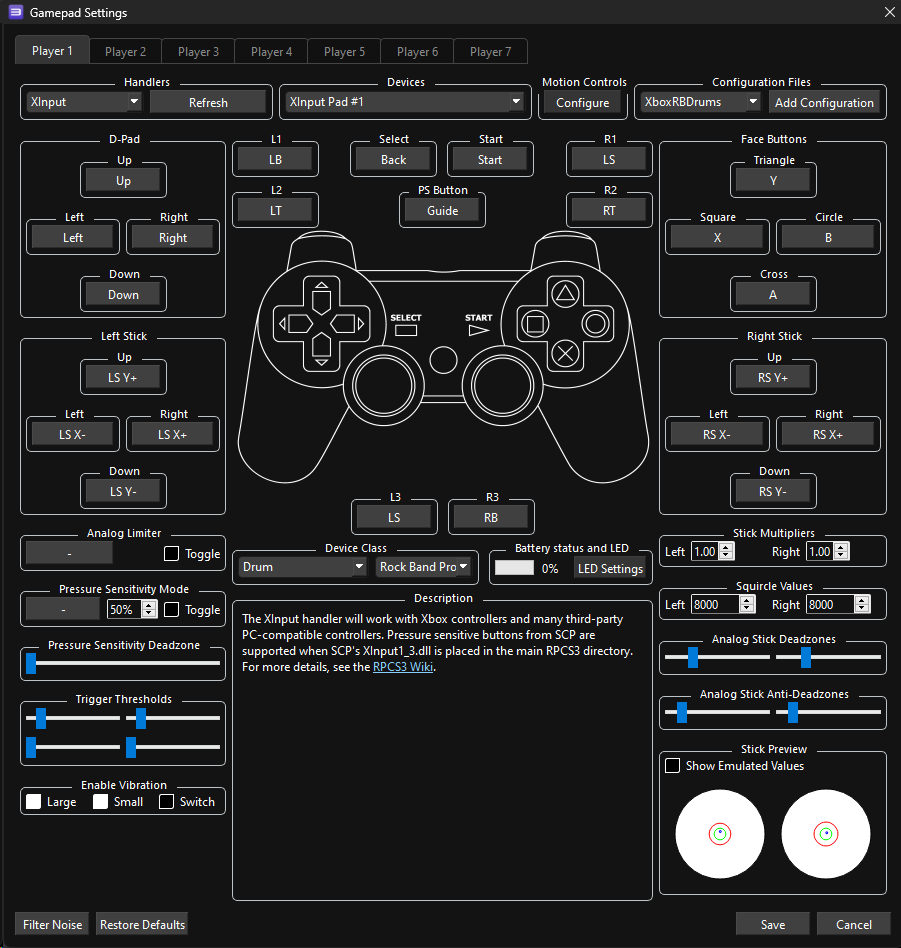
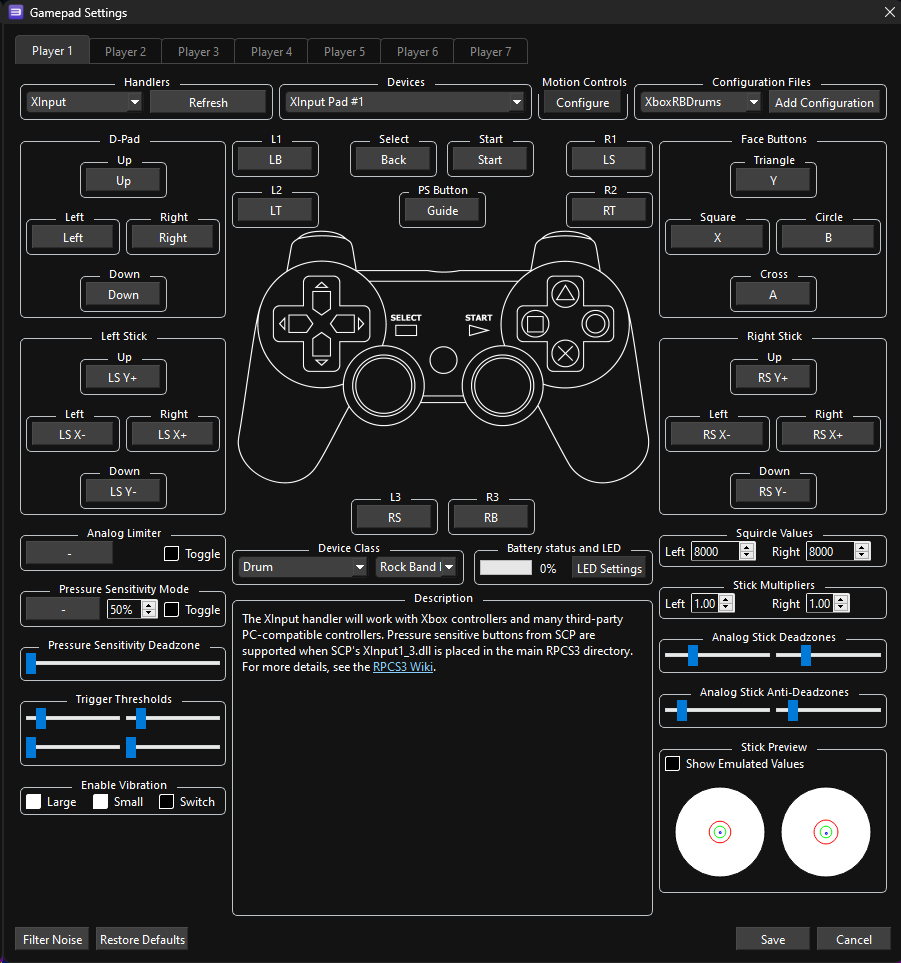
Add Discord Rich Presence and RTSS Guides (English only)
Will translate soon!
Also fixed Xbox RB drum profile.

diff --git a/pages/english/advanced/richpresence.md b/pages/english/advanced/richpresence.md
@@ -1,0 +1,74 @@
+---
+title: Discord Rich Presence
+sidebar: english_sidebar
+permalink: adv_discordrp
+folder: english
+tags: [advanced, english]
+summary: "How to add set up Rich Presence for Discord with Rock Band 3 Deluxe."
+toc: false
+---
+
+Want to show off to others what song you're in or just want to share the love of Rock Band 3 Deluxe?  
+You can do this with the Rich Presence script made for Rock Band 3 Deluxe.  
+![A screenshot of a blank Discord profile showing that they're playing Rock Band 3 Deluxe and in Bodhisattva by Steely Dan on drums.](https://rb3pc.milohax.org/images/xtra/rpc/discordrp.png "Discord Rich Presence")
+
+## Initial Setup
+
+First, we're going to disable RPCS3's presence because it will conflict and look weird.
+
+Click the `Config` button.  
+![A screenshot of RPCS3 with the cursor hovering over "Config"](https://rb3pc.milohax.org/images/xtra/rpc/rpcs3config.png "RPCS3")
+
+Under the `GUI` tab, disable `Use Discord Rich Presence` .  
+![A screenshot of RPCS3 with the "Use Discord Rich Presence" checkbox disabled.](https://rb3pc.milohax.org/images/xtra/rpc/rpcs3drpoff.png "RPCS3: Settings")
+
+Now, you'll need to download the latest version of [[Python 3]](https://www.python.org/downloads/){:target="_blank"}.
+
+[[Click here to go to the download page for Python 3]](https://www.python.org/downloads/){:target="_blank"}.
+
+![A screenshot of Python download website. A cursor hovers over "Download Python 3.12.6.](https://rb3pc.milohax.org/images/xtra/rpc/pydl.png "Python 3.12.6")
+
+Once it finishes downloading, open the installer.  
+In the installer:
+1. Click `Add python.exe to PATH`
+2. Click `Install now`  
+![A screenshot of Python's installer. "Add python.exe to PATH" and "Install now" are highlighted in tan with a dotted black outline.](https://rb3pc.milohax.org/images/xtra/rpc/pyinstall.png "Python 3.12.6")
+
+After that finishes downloading, download [[`dx_config_default.ini`]](https://raw.github.com/hmxmilohax/rock-band-3-deluxe/develop/scripts/dx_config_default.ini) and [[`dx_discordrp.py`]](https://raw.github.com/hmxmilohax/rock-band-3-deluxe/develop/scripts/dx_discordrp.py).
+
+* [[Click here to download `dx_config_default.ini`]](https://raw.github.com/hmxmilohax/rock-band-3-deluxe/develop/scripts/dx_config_default.ini)
+
+* [[Click here to download `dx_discordrp.py`]](https://raw.github.com/hmxmilohax/rock-band-3-deluxe/develop/scripts/dx_discordrp.py)
+
+![A screenshot of "dx_config_default.ini" and "dx_discordrp.py" in a browser's downloads.](https://rb3pc.milohax.org/images/xtra/rpc/rpcdl.png "Python 3.12.6")
+
+Put them in a folder of your preference. Since you'll need to launch this every time you want to do this, it should in an easy to reach spot.
+
+Once in the folder, make a copy of `dx_config_default` and rename it `dx_config`.  
+![A GIF of a copy of "dx_config_default" being created then being renamed to "dx_config".](https://rb3pc.milohax.org/images/xtra/rpc/inicopy.gif "Creating a copy")
+
+Open the `dx_config` file you just renamed.
+
+Remove the `#` from the line with `rpcs3_path`  
+Put the folder where `/dev_hdd0/` is within quotes. This is usually the same folder as your RPCS3 installation.  
+If you followed the suggestion to put RPCS3 in `C:\Games`, you simply have to remove the `#` and nothing else.  
+![A screenshot of "dx_config_default.ini" and "dx_discordrp.py" in a browser's downloads.](https://rb3pc.milohax.org/images/xtra/rpc/iniedit.png "dx_config.ini")
+
+Save your changes and close the file out.
+
+## Usage
+
+In the address bar at the top of your file browser window, type in `cmd` then press the Enter key.
+![A screenshot of a file browser window with "cmd" typed into the address bar.](https://rb3pc.milohax.org/images/xtra/rpc/cmdopen.png "Windows Explorer")
+
+Once the command line window opens up, type in `py dx_discord.py` and press the Enter key.
+
+If you did everything right, it should show that it has connected to Discord RPC successfully and that it's updating presence.  
+![A screenshot of a Windows command line, with it running the Discord Rich Presence script.](https://rb3pc.milohax.org/images/xtra/rpc/iniedit.png "cmd.exe")
+
+That's it! Remember to close it out after you're done and to repeat this when you want to open this up again.
+
+{% include links.html %}
+
+
+

diff --git a/pages/english/advanced/rtss.md b/pages/english/advanced/rtss.md
@@ -1,0 +1,60 @@
+---
+title: Fix Frame Pacing with RTSS
+sidebar: english_sidebar
+permalink: adv_rtss
+folder: english
+tags: [advanced, english]
+summary: "How to improve Frame Pacing in Rock Band 3 with RTSS."
+toc: false
+---
+
+Rock Band 3 is a game that benefits from having a smooth frame rate as judder can make it distracting to read the note track. RPCS3's frame limiter sometimes isn't up to the task. To fix this, you'll need to Rivatuner Statistics Server (or RTSS).
+
+## Initial Setup:
+
+For this to work correctly, you'll first need to change some things in RPCS3.
+
+First, **right click on Rock Band 3** in RPCS3, then click on "**Change Custom Configuration**".  
+![A screenshot of RPCS3's right click menu, showing "Change Custom Configuration" highlighted](https://rb3pc.milohax.org/images/cust/rpcs3customconfigchange.png "Change Custom Configuration")
+
+In the GPU tab:
+* Set "`Framelimit`" to "`Off`"
+* Set "`VSync`" to "`Off`"
+
+Don't forget to click "`Apply`" and "`Save custom configuration`" after.  
+When you're done, close out RPCS3.
+
+Now, go to [[Rivatuner Statistics Server's download page.]](https://www.guru3d.com/download/rtss-rivatuner-statistics-server-download/).  
+Click here to go to [[Rivatuner Statistics Server's download page.]](https://www.guru3d.com/download/rtss-rivatuner-statistics-server-download/)  
+![A screenshot of RTSS' download website. The cursor is hovering "Download Version 7.3.6 Final"](https://rb3pc.milohax.org/images/xtra/rtss/rtssdl.png "Guru3D RTSS Rivatuner Statistics Server Download 7.3.6 Final")
+
+It should start downloading a `.zip` archive shortly after.  
+![A screenshot of RTSS' .zip folder that contains the installer.](https://rb3pc.milohax.org/images/xtra/rtss/rtssdlbrowser.png "[Guru3D.com]-RTSS.zip")
+
+When it finishes downloading, open the installer and install RTSS. 
+![A screenshot of RTSS' .zip folder that contains the installer.](https://rb3pc.milohax.org/images/xtra/rtss/install6.png "[Guru3D.com]-RTSS.zip")
+
+Go the Start menu and search for `RivaTuner Statistics Server` or `RTSS`. Both should give you the app. Open it.  
+![A screenshot of the Start Menu, with "RivaTuner Statistics Server" in the search results.](https://rb3pc.milohax.org/images/xtra/rtss/rtssstart.png "Start search")
+
+When RTSS opens, you will be on the `Global` profile by default.  
+In this profile:
+* Set `Application detection level` to `None`.
+* Set `Show On-Screen Display` to `Off`.
+![A screenshot of RivaTuner Statistics Server, showing "Show On-Screen Display", "Application detection level", and "Add" highlighted in blue with a dotted outline.](https://rb3pc.milohax.org/images/xtra/rtss/rtssglobal.png "Rivatuner Statistics Server: Global")
+
+Click on `Add` when you're done.  
+A file browser window will open. Find where you have RPCS3 located and select the `rpcs3` application.
+![A screenshot of a file browser titled "Open". RPCS3 is selected and a cursor is over it.](https://rb3pc.milohax.org/images/xtra/rtss/rtssaddrpcs3.png "Open")
+
+When you add RPCS3, you'll be on the `rpcs3.exe` profile.
+In this profile:
+* Set `Application detection level` to `Low`.
+* Right click `Framerate limit` and set it to whatever display you're displaying RPCS3 on.
+	* Alternatively you can click on the number and set it to a specific framerate or set it to the VRR cap of your display.
+![A screenshot of RivaTuner Statistics Server, showing "Application detection level" and "Framerate limit" highlighted in blue with a dotted outline. "Framerate limit" has a popout menu with the cursor over a display.](https://rb3pc.milohax.org/images/xtra/rtss/rtssrpcs3.png "Rivatuner Statistics Server: rpcs3.exe")
+
+## Usage:
+
+After setting up RTSS, you can now just open it up whenever you want to limit your framerate without having judder!  
+If you're feeling lazy, you can even have it set to Start with Windows so you never have to do this manually.

diff --git a/pages/espanol/troubleshooting/teleprob.md b/pages/espanol/troubleshooting/teleprob.md
@@ -1,5 +1,5 @@
 ---
-title: Problemas Visuales
+title: Objetos Bugeados
 sidebar: espanol_sidebar
 permalink: trbl_teleprob_es
 folder: espanol
@@ -19,6 +19,8 @@ Extrae el archivo `rb3_ps3_guitar_glitch_fix.7z`. Mueve esta pantalla para un la
 
 Ahora, ve a la carpeta donde esta tu disco.  
 La manera mas rápida de encontrarla es por RPCS3. Haz click derecho en Rock Band 3 y después en `Open Folder > Open Disc Game Folder`. Arrastra esta pantalla para la izquierda.
+
+.
 
 ![Una captura de RPCS3, con el cursor sobre Open Game Folder, dentro del menú despegable de Open Folder.](https://rb3pc.milohax.org/images/trbl/teleprob/patchgames.png "RPCS3")
 

diff --git a/pages/english/instruments/drums/midi.md b/pages/english/instruments/drums/midi.md
@@ -16,7 +16,7 @@ toc: false
 
 * **Do NOT map this instrument via the "Pads" menu.**
 * Your MIDI Drum Kit needs to:
-	* **be set to MIDI Channel 10**
+	* **be set to MIDI Channel 10.**
 	* **be set to standard GM mapping.**  
 These should be default settings but consult the manual for your MIDI Drum Kit to make sure.
 * D-Pad: Left and D-Pad: Right cannot be used. This makes slowing down practice mode and cycling through trainers impossible.
